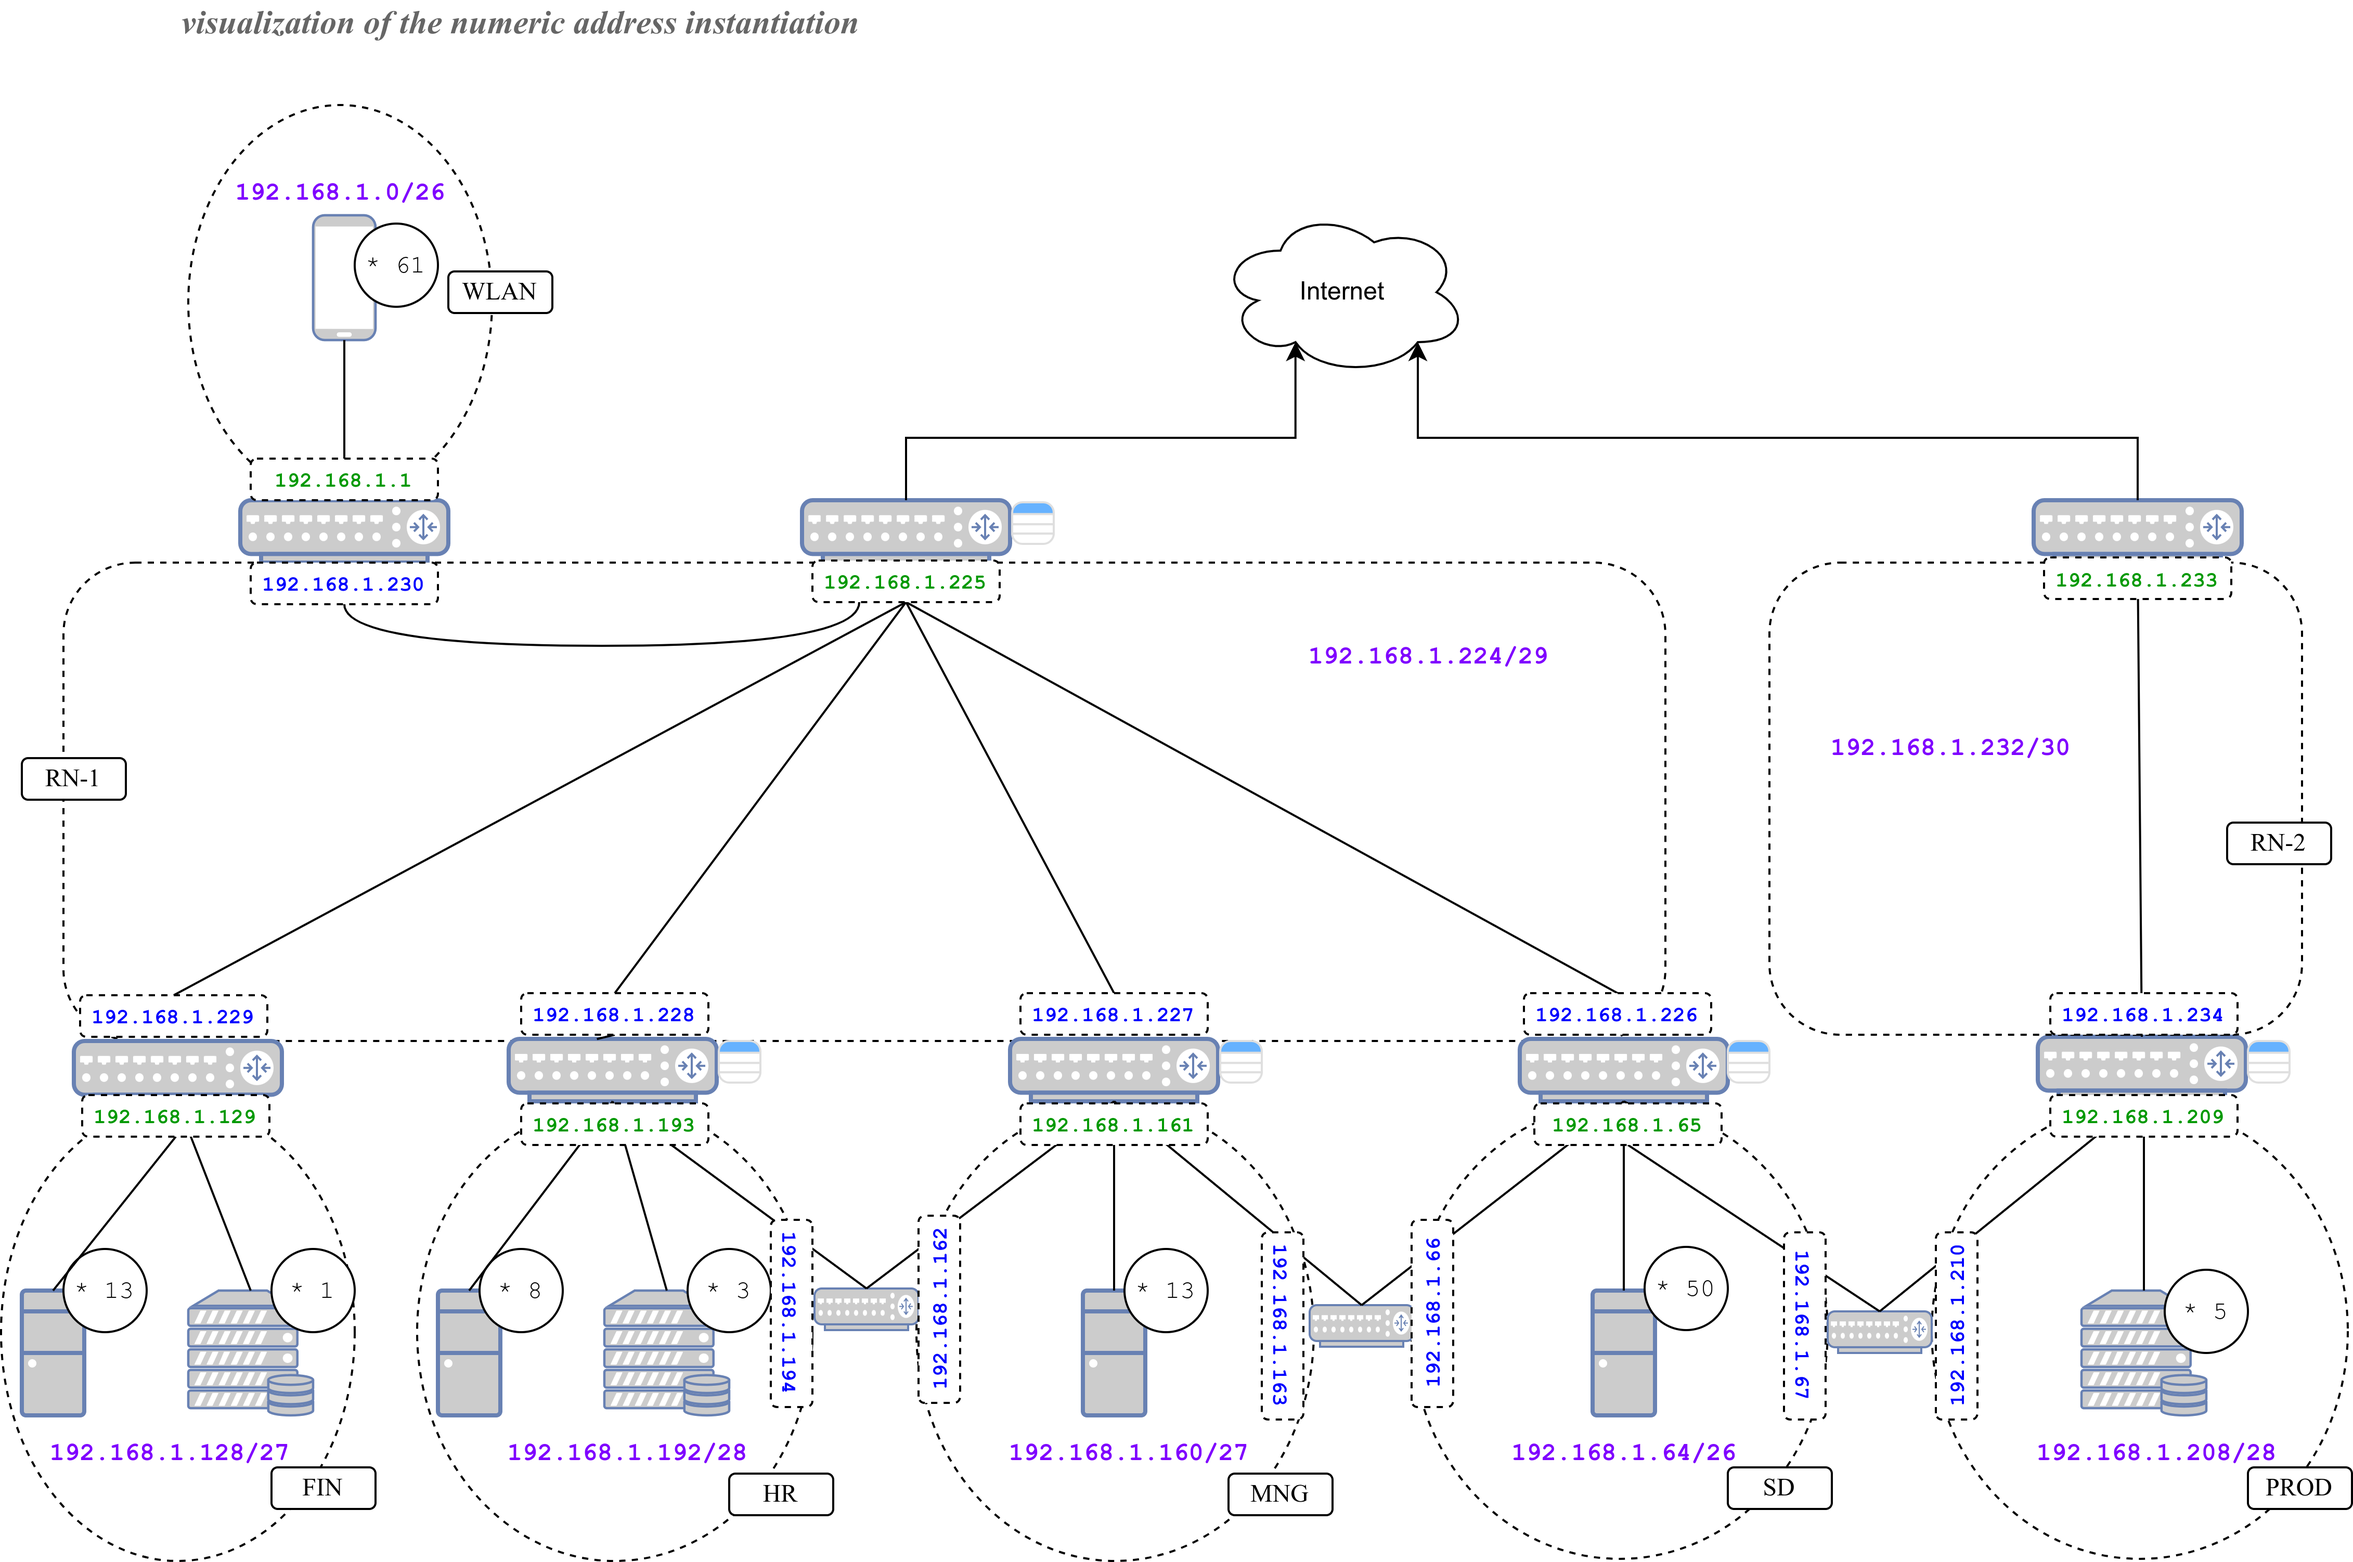
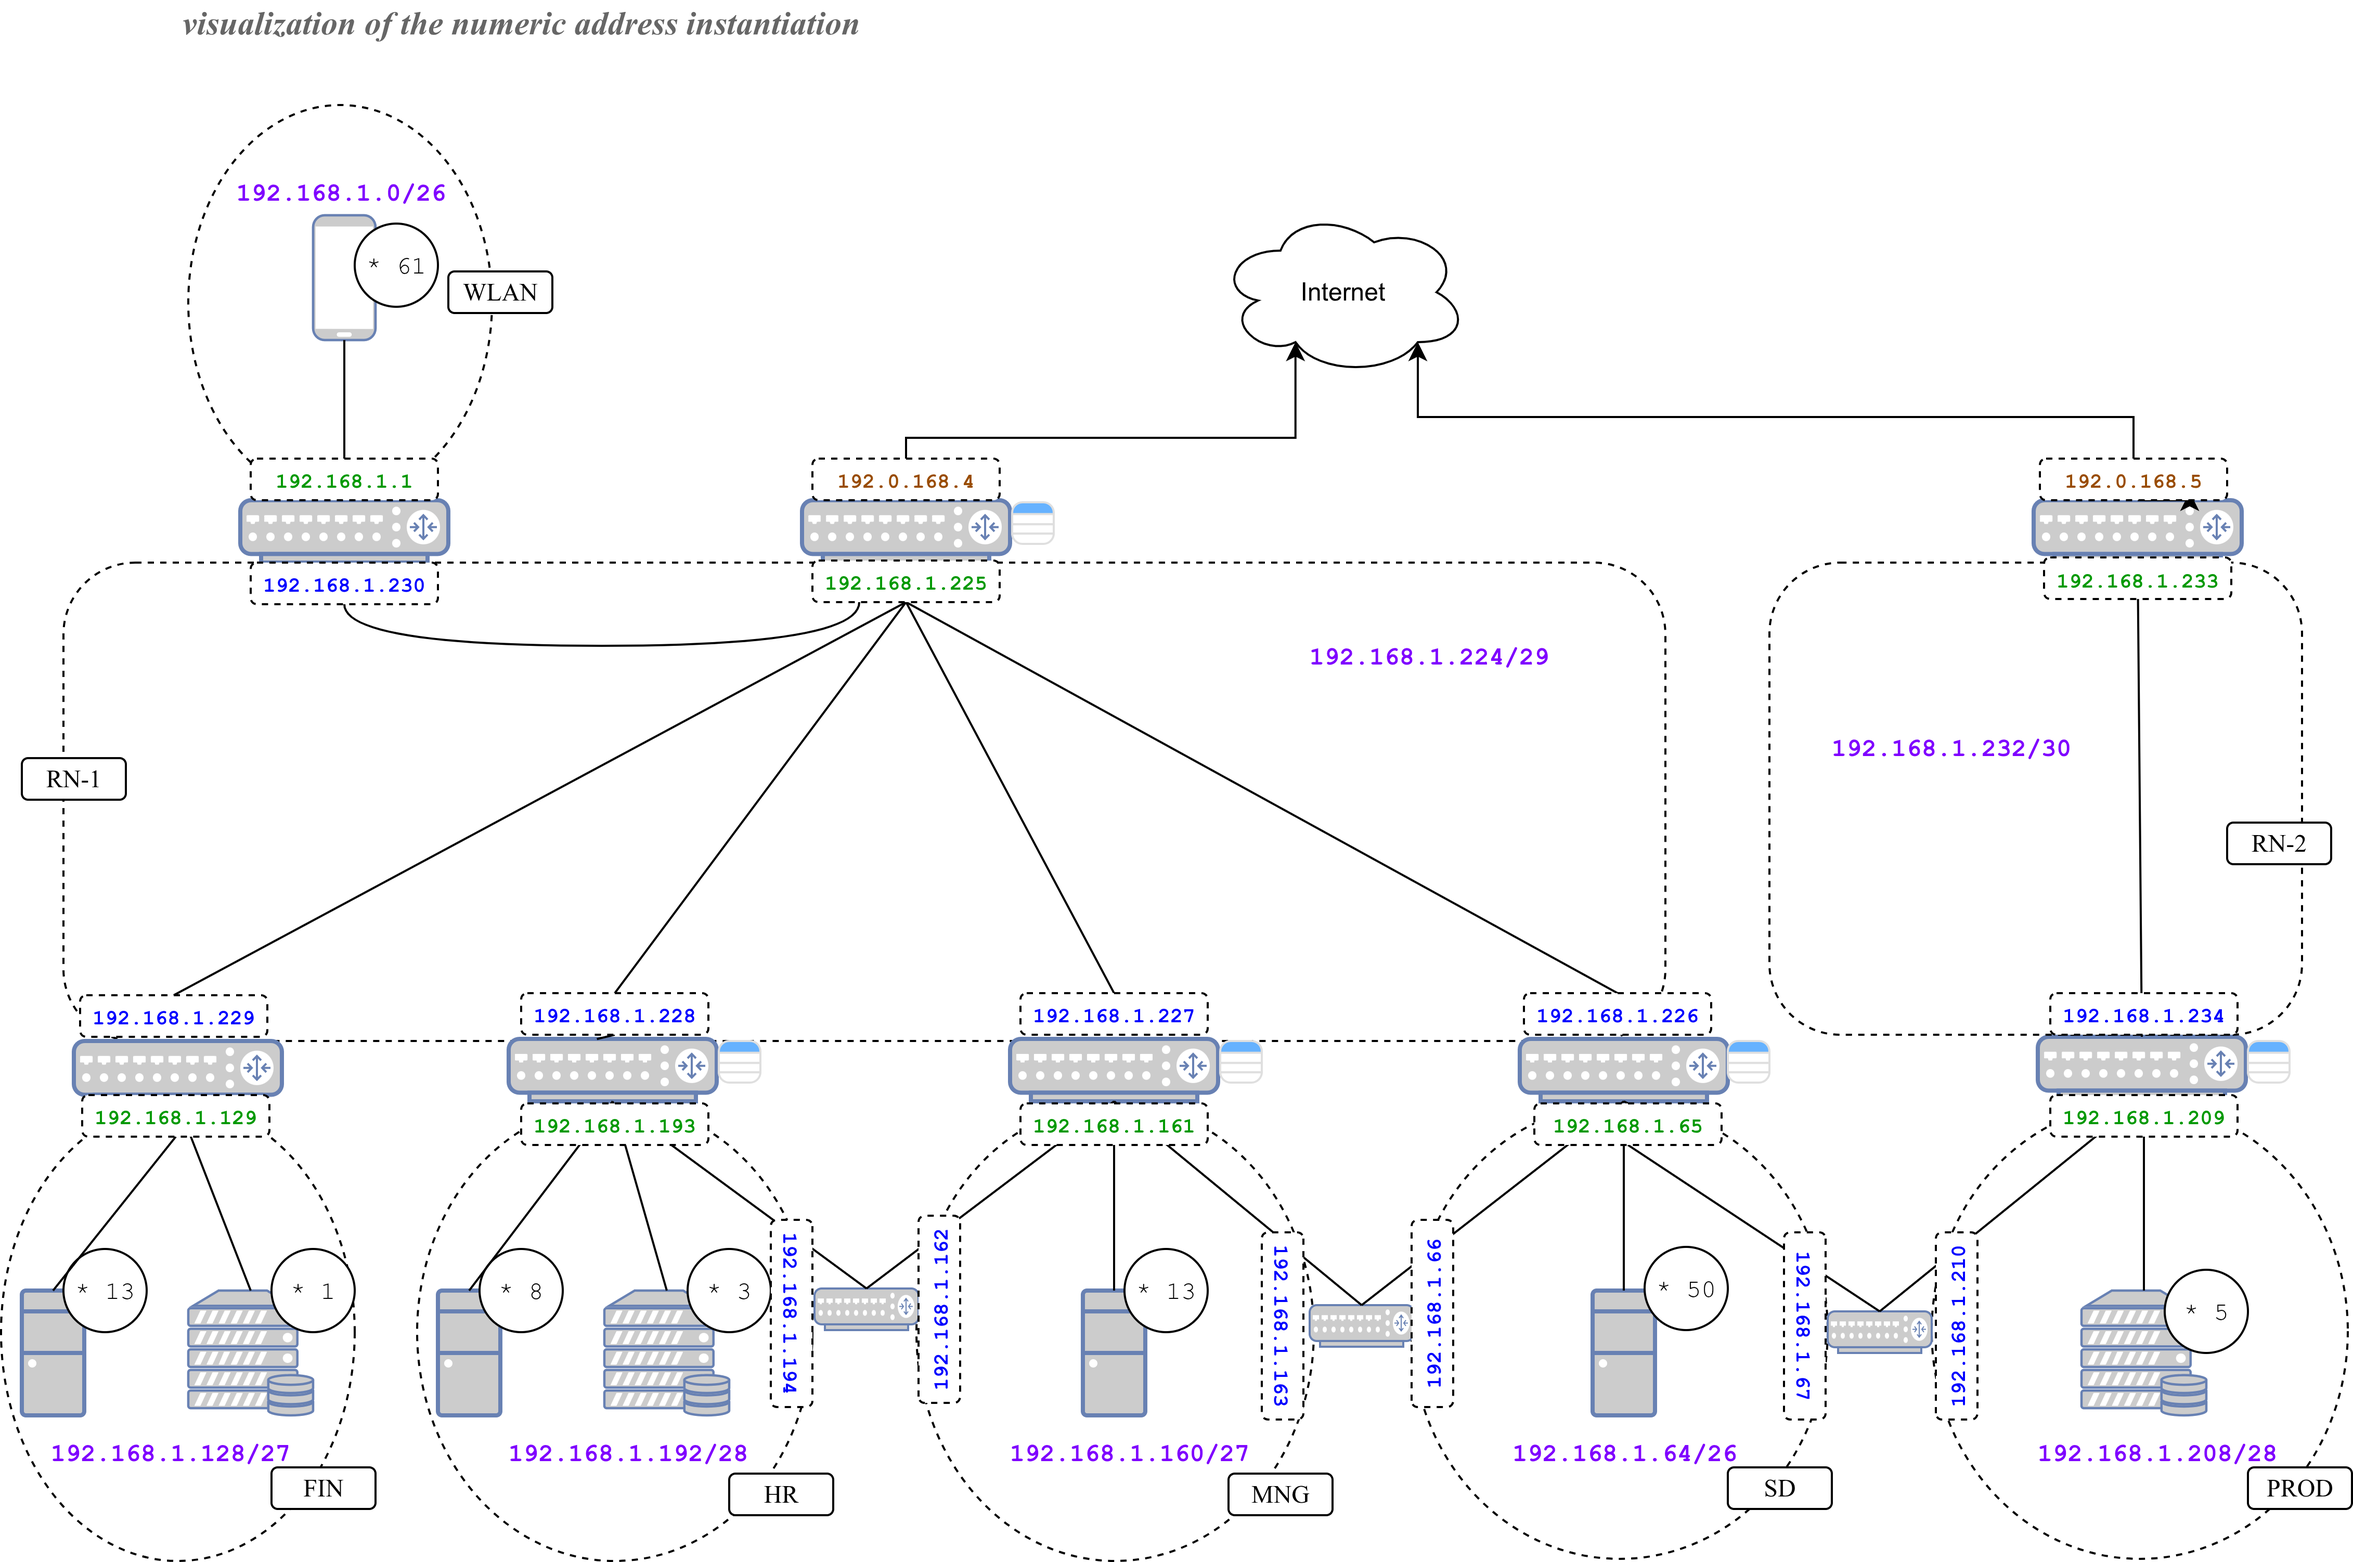
Add another segmentation exercise

diff --git a/sources/lf.09/sbj-10.ipv4-classes/zp/inc-sbj-00.tex b/sources/lf.09/sbj-10.ipv4-classes/zp/inc-sbj-00.tex
@@ -322,10 +322,30 @@
 \end{frame}
 
 \begin{frame}
-
   \frametitle{LF09:10::Lösung-B:Finales Netzdesign}
   \begin{center}
   \includegraphics[height=7cm]{\imgLf/ipv4-segmentation-task-final-nw-design.png}
+  \end{center}
+\end{frame}
+
+\begin{frame}
+  \frametitle{LF09:10:Mini-Segmentation:Task}
+  \vspace{0.5cm}
+  \begin{itemize}
+    \item Segmentiere /25 Netz in 2 Gebrauchsnetze und ein Verwaltungsnetz
+    \item Im Verwaltungsnetz: der Außenrouter, 2 Binnenrouter + 1 Rechner
+    \item Im Gebrauchsnetz A: ein Router ins Verwaltungsnetz + ?m? Rechner
+    \item Im Gebrauchsnetz B: ein Router ins Verwaltungsnetz + ?n? Rechner
+  \end{itemize}
+  \vspace{0.8cm}
+  Frage: Wie groß sind ?m? und ?n? maximal?
+\end{frame}
+
+
+\begin{frame}
+  \frametitle{LF09:10:Mini-Segmentation:Solution}
+  \begin{center}
+  \includegraphics[height=7cm]{\imgLf/ipv4-mini-segmentation-task.png}
   \end{center}
 \end{frame}
 

diff --git a/sources/lf.09/sbj-10.ipv4-classes/oraltrack.md b/sources/lf.09/sbj-10.ipv4-classes/oraltrack.md
@@ -196,11 +196,10 @@ Bitte planen Sie ein Netz, dass die Wünsche durch eine geeignete Segmentierung 
 
 <!-- uebung::end -->
 
----
 
 **Lösung:** 
 
-**LF09:02:02 [→ ZP:Sheet:11] Initiale Bedarfsanalyse**
+**LF09:10:02 [→ ZP:Sheet:11] Initiale Bedarfsanalyse**
 
 * _Abkürzungen_
   * **E** = Employees / Mitarbeiter
@@ -224,7 +223,7 @@ Bitte planen Sie ein Netz, dass die Wünsche durch eine geeignete Segmentierung 
 
 → Das Netzwerkdesign wird zu einem mehrstufigen, iterativen Prozess.
 
-**LF09:02:02 [→ ZP:Sheet:12] initiales Netzwerkdesign**
+**LF09:10:02 [→ ZP:Sheet:12] initiales Netzwerkdesign**
 
 * *Minimal Viable Product* : 1 Core-Netz, alle Rechner im Core-Netz, 1 Router im Core-Netz mit Hopping heraus ins Internet (Core-Dateway).
 * *Erweiterungen*: 
@@ -237,7 +236,7 @@ Bitte planen Sie ein Netz, dass die Wünsche durch eine geeignete Segmentierung 
   * X:) 2. Router in DEV mit Interface nach PROD
   * Z:) Goldplating: Router in MNG mit Interface nach HR und DEa etc.
 
-**LF09:02:02 [→ ZP:Sheet:13] Bereinigte Bedarfsanalyse**
+**LF09:10:02 [→ ZP:Sheet:13] Bereinigte Bedarfsanalyse**
 
 * _Abkürzungen_
   * **E** = Employees / Mitarbeiter
@@ -258,8 +257,31 @@ Bitte planen Sie ein Netz, dass die Wünsche durch eine geeignete Segmentierung 
    * Die Zugriffe müssen zusätzlich zu Netzwerkstruktur per Firewall-Regeln in den zuständigen Routern begrenzt werden. 
 
 
-**LF09:02:02 [→ ZP:Sheet:14] Adressinstantiierung**
+**LF09:10:02 [→ ZP:Sheet:14] Adressinstantiierung**
 
-**LF09:02:02 [→ ZP:Sheet:15] Finales Netzwerkdesign**
+**LF09:10:02 [→ ZP:Sheet:15] Finales Netzwerkdesign**
 
+---
 
+**LF09:10:03 [→ ZP:Sheet:17] Mini-Segmentation-Task**
+
+<!-- uebung::start -->
+<span style="color: green;">_ÜBUNG_</span> <span style="color:magenta;">LF09:10:Mini-Segmentierung:03</span>
+
+* [ ] Segmentieren Sie ein /25 Netz in 2 Gebrauchsnetze und ein Verwaltungsnetz.
+* [ ] Das Verwaltungsnetz enthalte den Außenrouter (Zugang ins Internet), einen Arbeitsrechner und zwei Binnenrouter (, die den Gebrauchsnetzen einen indirekten Zugang ins Internet bieten).
+* [ ] Beantworten Sie die Frage, wie viele Geräte man jeweils zusätzlich in den Gebrauchsnetzen noch anschließen kann.
+
+Hinweis: Clever wäre es, auch hier folgende Arbeitsschritte zu durchlaufen
+
+* Initiale Bedarfsanalyse erstellen
+* Initialen Netzplan erstellen
+* ggf. bereinigte Bedarfsanalyse erstellen
+* Adressbereiche verteilen
+* Finalen Netzplan erstellen 
+
+<!-- uebung::end -->
+
+Lösung **[→ ZP:Sheet:17]**
+
+---
